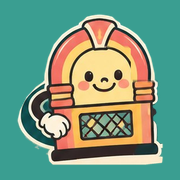
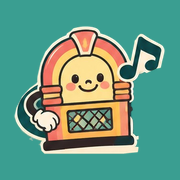
Add files via upload

diff --git a/index.html b/index.html
@@ -274,14 +274,25 @@ hr{border-top-color:#f0d9b5}
 .qrow.cur{background:#fbe7a8;border:2px solid #2f8f87;border-radius:18px}
 #qbtn2{background:var(--cream);border:2px solid var(--dt)}
 @media(max-width:480px){h1{font-size:2.2rem;-webkit-text-stroke-width:5px}.logo svg{height:84px;width:auto}.sec{font-size:1.9rem}main{padding:18px 14px 150px}}
-.logo img.mascot{height:104px;width:auto;flex:none;filter:drop-shadow(0 3px 0 rgba(15,79,75,.25))}
+.logo img.mascot{height:108px;width:auto;flex:none;filter:drop-shadow(0 3px 0 rgba(15,79,75,.25))}
 @media(max-width:480px){.logo img.mascot{height:88px}}
+#seekRow{flex:none;margin:0 14px 10px;padding:8px 14px 10px;background:var(--cream);border:3px solid var(--coral);border-radius:26px}
+.sk{display:flex;align-items:center;gap:10px;font-weight:600;font-size:.95rem;font-variant-numeric:tabular-nums;color:var(--ink)}
+.sk span{min-width:2.6em;text-align:center}
+#seek{--p:0%;-webkit-appearance:none;appearance:none;flex:1;width:auto;min-width:0;height:32px;margin:0;padding:0;border:0;background:transparent;touch-action:pan-y}
+#seek::-webkit-slider-runnable-track{height:10px;border-radius:6px;background:linear-gradient(90deg,var(--coral) var(--p),#f0d9b5 var(--p))}
+#seek::-webkit-slider-thumb{-webkit-appearance:none;width:28px;height:28px;margin-top:-9px;border-radius:50%;background:var(--sun);border:3px solid var(--dt)}
+#seek::-moz-range-track{height:10px;border-radius:6px;background:#f0d9b5}
+#seek::-moz-range-progress{height:10px;border-radius:6px;background:var(--coral)}
+#seek::-moz-range-thumb{width:22px;height:22px;border-radius:50%;background:var(--sun);border:3px solid var(--dt)}
+.skb{display:flex;justify-content:center;gap:8px;margin-top:4px;flex-wrap:wrap}
+.skb .chip{padding:5px 14px;font-size:.95rem}
 </style>
 </head>
 <body>
 <header>
   <div class="logo">
-    <img src="logo.png" alt="" class="mascot" width="96" height="99">
+    <img src="logo.png" alt="" class="mascot" width="123" height="104">
     <h1>Youth<span>Box</span></h1>
   </div>
   <div class="hbtns"><button id="hp" class="chip">Help</button><button id="gu" class="chip">Grown-ups</button></div>
@@ -305,6 +316,10 @@ hr{border-top-color:#f0d9b5}
     <div id="lyrics"></div>
     <div id="lyAdj" hidden><span>Lyrics timing:</span><button id="lyEar" class="chip">⏪ Earlier</button><b id="lyOff">0s</b><button id="lyLat" class="chip">Later ⏩</button></div>
     <div id="qList"></div>
+  </div>
+  <div id="seekRow">
+    <div class="sk"><span id="tEl">0:00</span><input id="seek" type="range" min="0" max="1000" value="0" aria-label="Song position"><span id="tDur">0:00</span></div>
+    <div class="skb"><button id="skBack" class="chip" aria-label="Back 10 seconds">⏪ 10s</button><button id="rep" class="chip">🔁 Repeat all</button><button id="skFwd" class="chip" aria-label="Forward 10 seconds">10s ⏩</button></div>
   </div>
 </div>
 <div id="qwrap" aria-hidden="true">
@@ -795,7 +810,9 @@ function onState(e){
   if(playing){errs=0; startTick(); if(mutedKick){mutedKick=false; setTimeout(()=>{try{player.unMute();}catch(x){}},400);}} else stopTick();
   if(playing&&LY.st==='load') loadLyrics();
   if(e.data===0){
+    if(S.repeat==='one'){try{player.seekTo(0,true); player.playVideo();}catch(x){} return;}
     if(inList()){try{if(player.getPlaylistIndex()<player.getPlaylist().length-1) return;}catch(x){}}
+    if(S.repeat==='off'&&!S.q.length) return;
     nextBtn();
   }
 }
@@ -1756,6 +1773,32 @@ if('serviceWorker' in navigator&&location.protocol.startsWith('http')){
   });
 }
 if(limitHit()) showBreak();
+
+/* ---------- seek bar + repeat ---------- */
+{
+  const fmt=t=>{t=Math.max(0,Math.floor(t||0)); return Math.floor(t/60)+':'+String(t%60).padStart(2,'0');};
+  const sk=$('seek'); let drag=false;
+  const paintSk=p=>sk.style.setProperty('--p',p+'%');
+  const dur=()=>{try{return pReady&&cur>=0?(player.getDuration()||0):0;}catch(e){return 0;}};
+  const pos=()=>{try{return pReady?(player.getCurrentTime()||0):0;}catch(e){return 0;}};
+  function tickSk(){
+    if(drag) return; const d=dur(), t=pos();
+    sk.value=d?Math.round(t/d*1000):0; paintSk(d?t/d*100:0);
+    $('tEl').textContent=fmt(t); $('tDur').textContent=d?fmt(d):'0:00';
+  }
+  setInterval(tickSk,500);
+  sk.addEventListener('input',()=>{drag=true; paintSk(sk.value/10); $('tEl').textContent=fmt(sk.value/1000*dur());});
+  sk.addEventListener('change',()=>{const d=dur(); if(d){try{player.seekTo(sk.value/1000*d,true);}catch(e){}} setTimeout(()=>{drag=false; tickSk();},250);});
+  ['touchstart','touchmove','touchend'].forEach(ev=>$('seekRow').addEventListener(ev,e=>e.stopPropagation(),{passive:true}));
+  const jump=s=>{const d=dur(); if(!d) return; try{player.seekTo(Math.min(d-.5,Math.max(0,pos()+s)),true);}catch(e){} tickSk();};
+  $('skBack').onclick=()=>jump(-10); $('skFwd').onclick=()=>jump(10);
+  const RL={all:'🔁 Repeat all',one:'🔂 Repeat song',off:'➡ No repeat'};
+  function paintRep(){const m=S.repeat||'all'; $('rep').textContent=RL[m]; $('rep').classList.toggle('sel',m==='one');}
+  $('rep').onclick=()=>{S.repeat=({all:'one',one:'off',off:'all'})[S.repeat||'all']; save(); paintRep(); toast(RL[S.repeat]);};
+  paintRep();
+  /* tap anywhere on the mini player (not its buttons) to open the full player */
+  $('barIn').addEventListener('click',e=>{if(!e.target.closest('button')) openSheet();});
+}
 </script>
 </body>
 </html>
